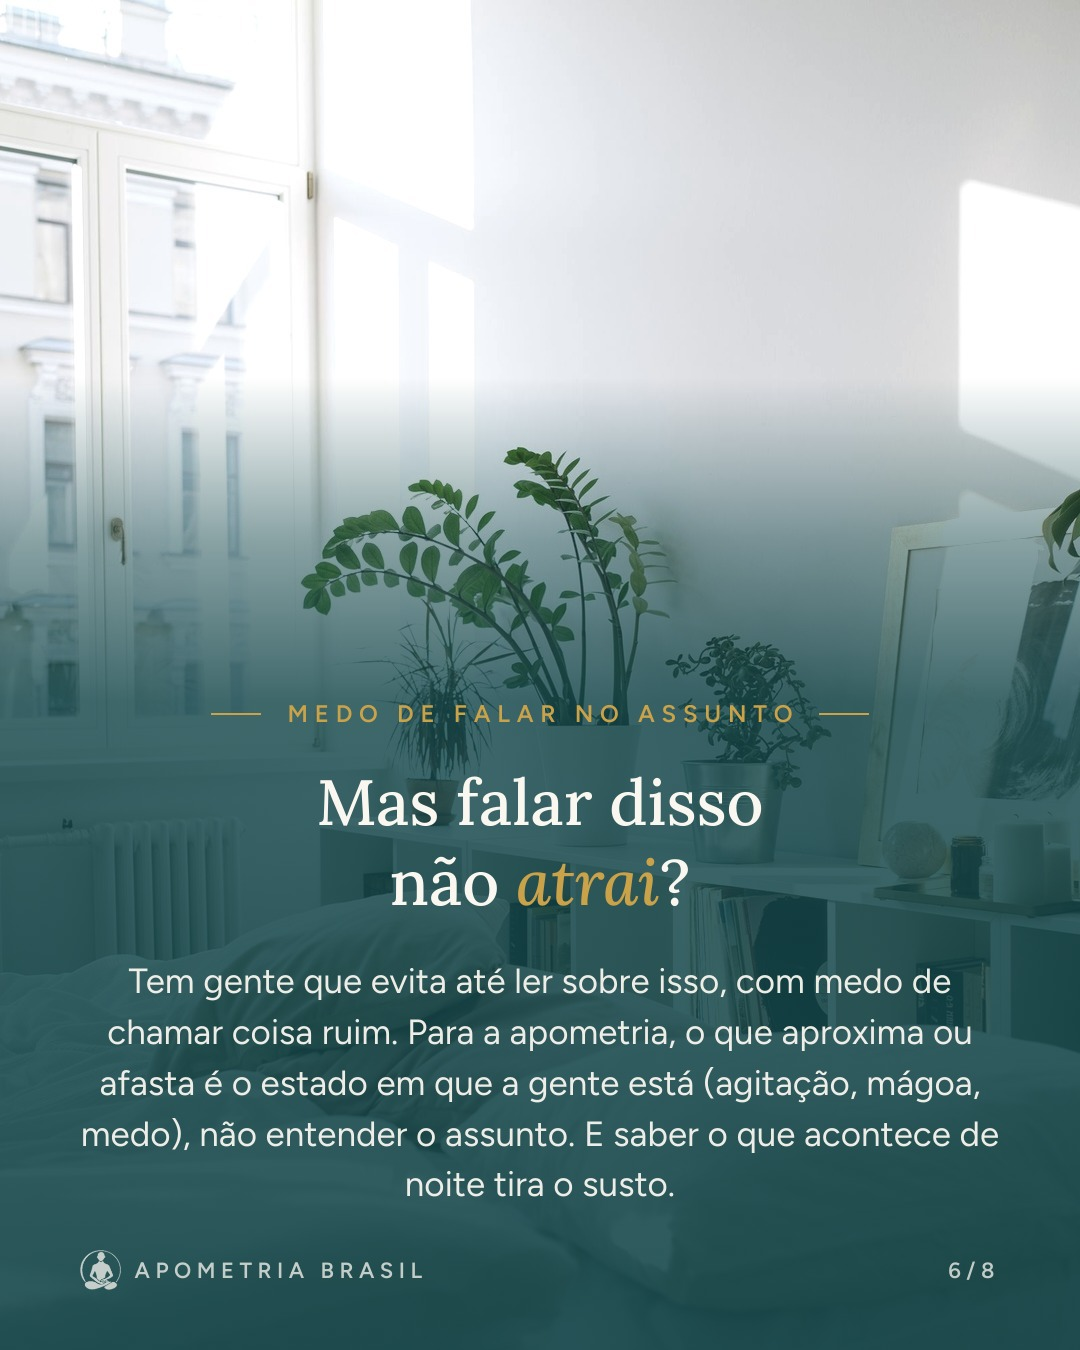
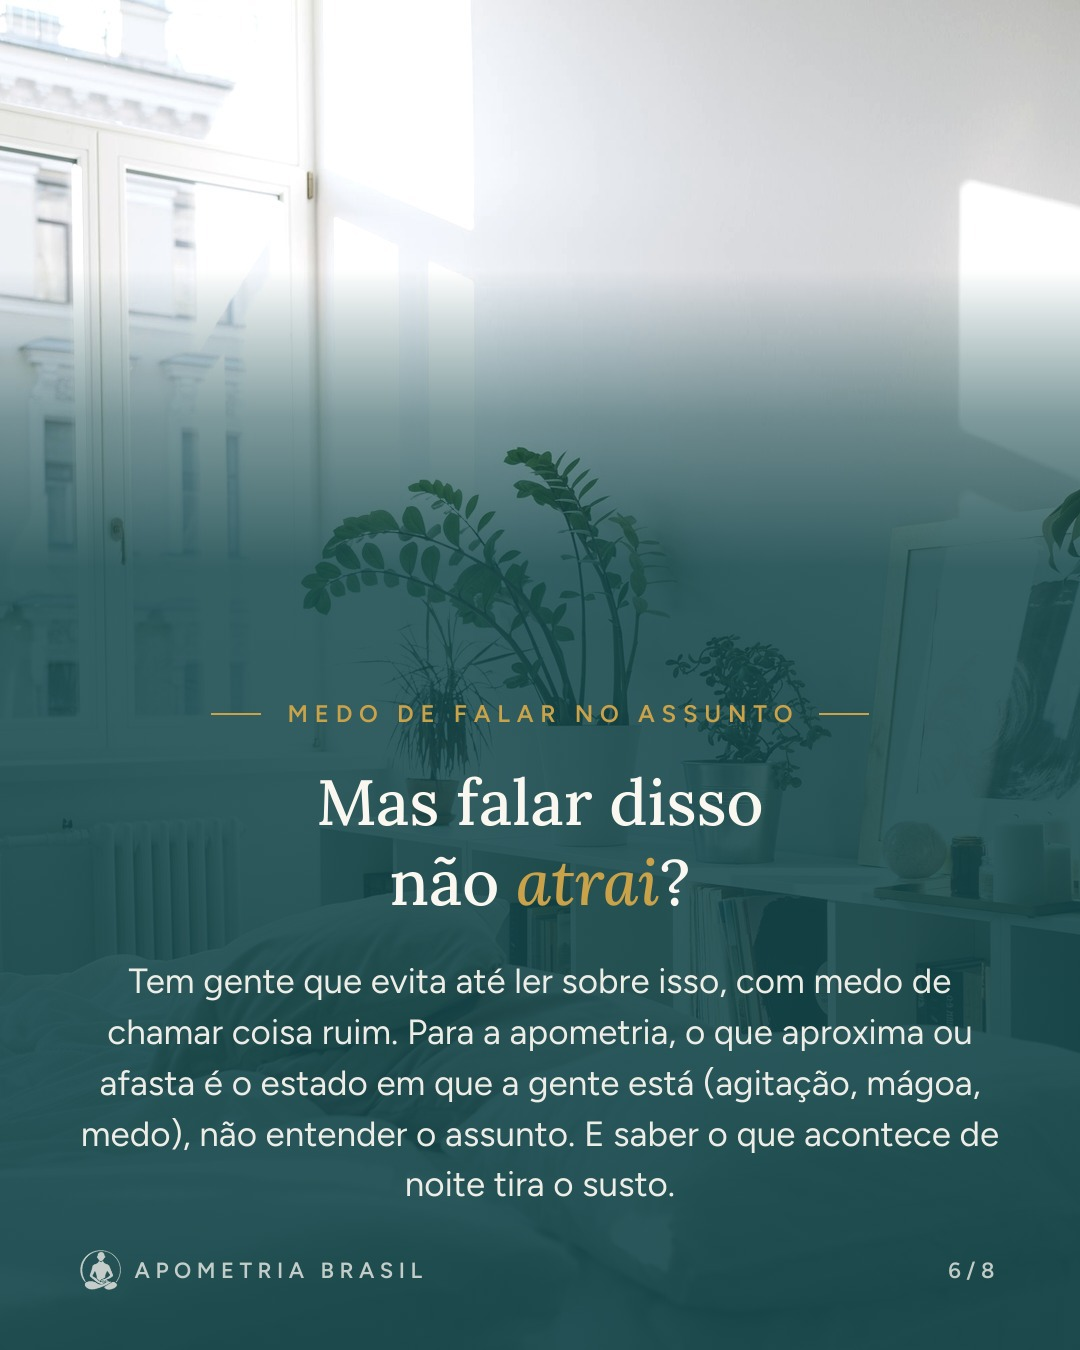
Produção pesadelos: lâminas finais, conferência final e resumo; modelo com degradê mais forte nas lâminas claras
Claude-Session: https://claude.ai/code/session_01JEWNugGqZtfRNNpR6FEnd2

Changed region(s): [[0.0, 0.2178, 1.0, 0.4978]]

diff --git a/modelos/remotion/src/Carrossel.tsx b/modelos/remotion/src/Carrossel.tsx
@@ -60,7 +60,7 @@ const Titulo: React.FC<{txt: string; size: number; id: Identidade}> = ({txt, siz
 const degrade = (tom: Lamina['tom'], id: Identidade) => {
   const c = tom === 'escuro' ? id.cores.escuro : id.cores.marca;
   if (tom === 'claro')
-    return `linear-gradient(180deg, rgba(${c},0) 0%, rgba(${c},0) 28%, rgba(${c},0.50) 40%, rgba(${c},0.82) 52%, rgba(${c},0.90) 100%)`;
+    return `linear-gradient(180deg, rgba(${c},0) 0%, rgba(${c},0) 20%, rgba(${c},0.55) 31%, rgba(${c},0.86) 42%, rgba(${c},0.92) 100%)`;
   return `linear-gradient(180deg, rgba(${c},0.10) 0%, rgba(${c},0) 22%, rgba(${c},0.55) 42%, rgba(${c},0.84) 62%, rgba(${c},0.92) 100%)`;
 };
 

diff --git a/producoes/2026-11-15-apometria-pesadelos/08-critica-olho.md b/producoes/2026-11-15-apometria-pesadelos/08-critica-olho.md
@@ -21,3 +21,23 @@ Data: 15/11/2026 · Imagens avaliadas: `final/lamina-1.jpg` a `final/lamina-8.jp
 **Veredito: AJUSTAR** (lâminas 2, 4, 5, 6, 7 e 8).
 - Moldura: lâminas 4 (palavra sozinha), 5 (contraste do rótulo), 6, 7 e 8 (bloco sobre a assinatura, degradê, logo da lâmina 8).
 - Lente: lâmina 2 (sombra na parede), lâmina 4 (braço da luminária colado no "?"), lâmina 8 (luminária e vaso atrás do texto, brilho estourado).
+
+## Rodada 2
+Data: 15/11/2026 · Imagens refeitas: texto ancorado embaixo, acima da assinatura. A Lente trocou as fotos 2, 4, 5 e 8. Abri as 8 lâminas uma por uma de novo.
+
+| Lâm. | Situação | O que está errado | O que fazer | Quem corrige |
+|---|---|---|---|---|
+| 1 | OK | Agora o bloco fica todo na parte escura, abaixo da janela. O rótulo saiu de cima do vidro cinza. A chamada "Arraste para o lado →" tem folga até a assinatura. | — | — |
+| 2 | OK | A sombra na parede sumiu: o novo recorte mostra só a pessoa de cabeça baixa, à esquerda, e a janela com luzes desfocadas, à direita. Não tem mais leitura de vulto. Título e texto ficam abaixo da cabeça, sobre o casaco escuro. Há ~50 px de folga entre a última linha e a assinatura. O ombro da pessoa encosta na borda esquerda, mas isso não atrapalha. | — | — |
+| 3 | OK | Igual à Rodada 1, com o bloco mais baixo e folga até o rodapé. | — | — |
+| 4 | OK | Agora a luminária está acima do rótulo, à direita, com a luz acesa visível: ela lê como abajur e dá a "primeira luz" que a pauta pede. Nada encosta no título. A última linha virou "de novo." (duas palavras). É curta, mas não é palavra sozinha. | Opcional: se a Moldura tiver como, distribuir melhor as linhas para a última não ficar tão curta. | — |
+| 5 | OK | O rótulo saiu da travessa da janela e agora fica sobre o verde-petróleo escuro, onde dá para ler. Título e texto também ficam sobre o verde. | — | — |
+| 6 | AJUSTAR | A sobreposição com a assinatura foi resolvida. Mas, com o bloco mais alto, o **rótulo e o título passam no meio dos vasos de planta**, no centro da lâmina (entre ~52% e ~65% da altura). "MEDO DE FALAR NO ASSUNTO" atravessa as folhas e a borda clara do vaso branco, e as letras douradas finas ficam cortadas pelas folhas. Em "Mas falar disso", "falar" fica sobre o vaso branco e "disso" sobre o vaso de metal, que continuam claros embaixo do degradê. No celular, o rótulo é o texto mais difícil de ler de toda a sequência, e o título perde contraste nessas palavras. O texto de apoio, mais embaixo, está bom. | Moldura: começar a parte sólida do degradê ~120 px mais alto nesta lâmina, para os vasos ficarem cobertos pelo verde. Ou Lente: recortar a foto (por exemplo, `foco` y ~0.3 com `zoom` ~1.15) para as plantas subirem e ficarem acima do rótulo, deixando lençol e prateleira atrás do texto. | Moldura (ou Lente) |
+| 7 | OK | O texto não encosta mais na assinatura (~60 px de folga). Rótulo, título e texto ficam todos sobre o verde do degradê, com contraste bom. O dourado do rótulo fica um pouco suave, mas dá para ler. | — | — |
+| 8 | AJUSTAR | A foto nova resolveu a luminária: agora é uma costela-de-adão à esquerda, uma cama desfeita clara e uma janela com persiana, uma manhã calma e sem nada atrás do título. O logo e "APOMETRIA BRASIL" ficam abaixo da chamada, sem cruzar texto, e o tamanho do logo está dentro do kit. **Sobrou um ponto:** o rótulo "PARA A PRÓXIMA NOITE" (a ~45% da altura) cai exatamente na transição do degradê, sobre o travesseiro e o edredom brancos. O dourado fino fica lavado e é o rótulo mais apagado depois do da lâmina 6. No celular, dá para ler só de perto. | Moldura: descer o bloco inteiro ~60 px (há espaço livre embaixo da assinatura) ou começar o verde sólido ~80 px mais alto, para o rótulo ficar sobre o verde, como na lâmina 7. | Moldura |
+
+**Sequência de tons:** continua certa: escuro (1 a 3) → primeira luz (4) → transição (5) → claro (6 a 8). A lâmina 8 está calma e clara, como pedido. Nenhuma foto tem vulto, rosto em destaque ou clima de terror.
+
+**Veredito: AJUSTAR** (lâminas 6 e 8; as duas são ajustes de contraste do rótulo e do título na faixa de transição do degradê. Nada mais está cortado ou sobreposto).
+- Moldura: lâmina 6 (degradê mais alto ou foto recortada) e lâmina 8 (rótulo sobre o verde).
+- Esta foi a **2ª rodada do Olho**, o máximo previsto em `docs/criterios.md`. Se a correção não for feita e conferida agora, a peça vai para a responsável com estas duas observações.

diff --git a/producoes/2026-11-15-apometria-pesadelos/09-resumo.md b/producoes/2026-11-15-apometria-pesadelos/09-resumo.md
@@ -1,0 +1,16 @@
+# Resumo · Carrossel "Pesadelos recorrentes" (teste da fábrica)
+
+| Etapa | Resultado |
+|---|---|
+| Pesquisa (Sonda) | 3 rodadas. **Mínimo de 8 falas reais não atingido**: fóruns (Reddit, Quora) e comentários do YouTube bloqueados no ambiente. Usados: perguntas reais do Quora e detalhes concretos de relatos. |
+| Pauta (Bússola) | 8 lâminas, escuro → claro, objeção "falar disso atrai?" |
+| Ganchos (Faísca + Lupa) | 10 ganchos; escolhido "O mesmo pesadelo, quase toda noite?" (8,5) |
+| Roteiro (Pena ⇄ Lupa ⇄ Guardiã) | v1 reprovada pela Lupa (8,30) · v2 aprovada (8,78) e **reprovada pela responsável** (linguagem genérica/de IA) · v3 reprovada pela Lupa com a regra nova (Naturalidade 7,5) · **v4 aprovada (8,78; Naturalidade 8,5)** · 4.1 polimento · Guardiã aprovou |
+| Arte (Lente) | 8 fotos Pexels; 3 trocadas/recortadas após o Olho |
+| Montagem (Moldura) | 2 renderizações completas + ajustes |
+| Crítica visual (Olho) | Rodada 1: 6 ajustes · Rodada 2: 2 ajustes (degradê das lâminas claras), corrigidos no modelo e conferidos pelo Maestro |
+
+## Melhorias que a produção trouxe para a fábrica
+- Lupa: Naturalidade ≥ 8 obrigatória e teste de leitura em voz alta.
+- Sonda: mínimo de 8 falas reais ou aviso de pesquisa insuficiente.
+- Modelo: texto ancorado embaixo (nunca invade a assinatura), sem palavra sozinha na linha, degradê mais forte nas lâminas claras.
